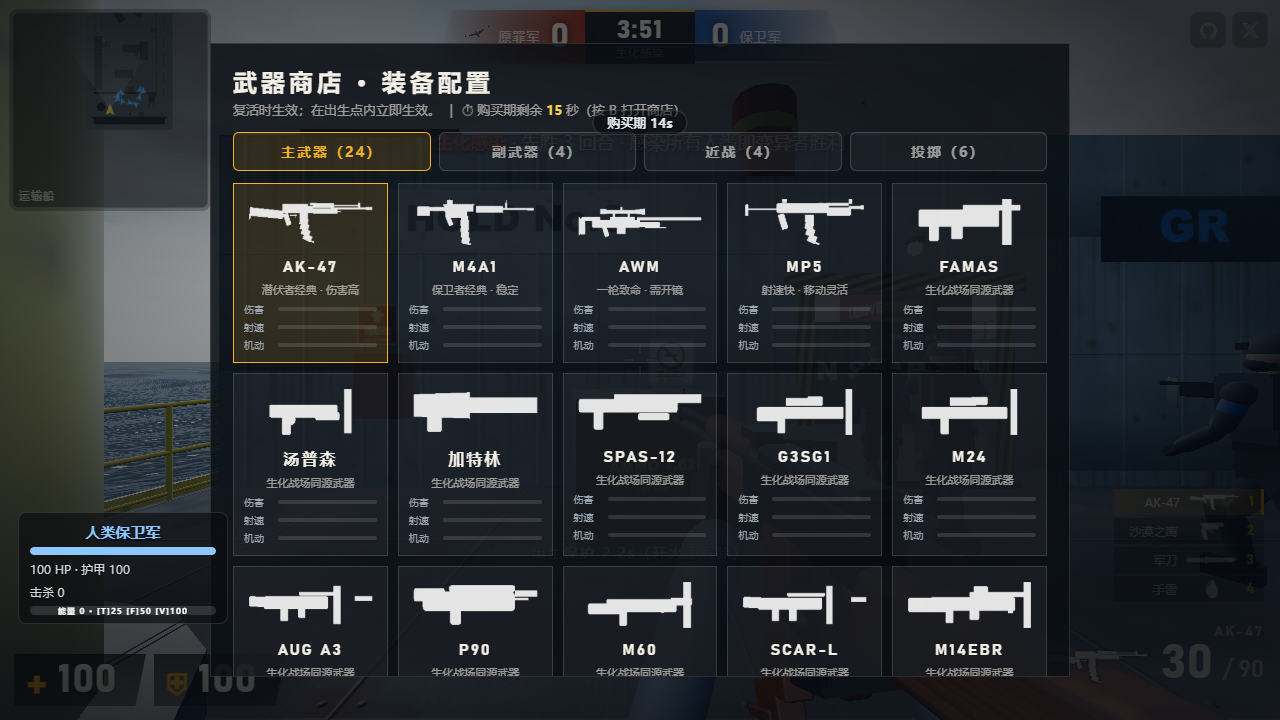
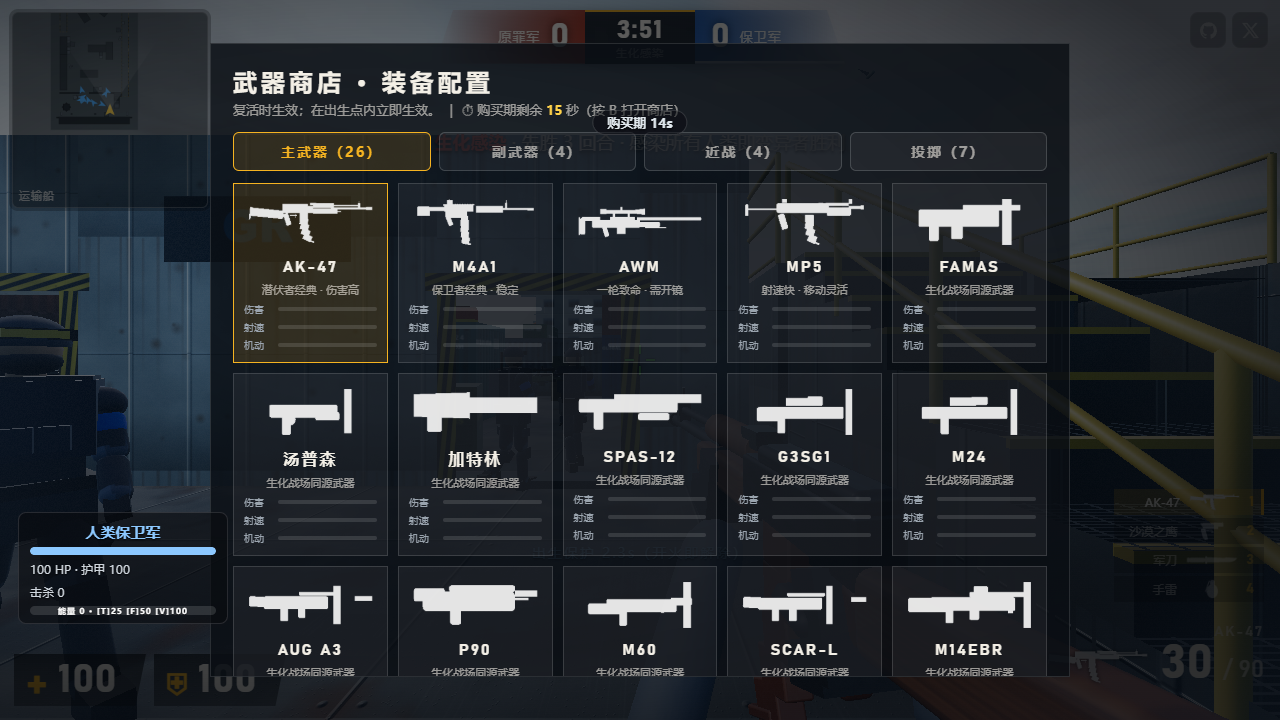
V60: 武器批次2(温彻斯特/龙息霰弹/毒液手雷+毒液区域)+枪模构建器+卡数同步+probe v56

diff --git a/cf-transport-ship/src/weapons.js b/cf-transport-ship/src/weapons.js
@@ -208,6 +208,22 @@ export const WEAPONS = {
     recoil: { up: 0.0032, upMax: 0.05, side: 0.0055, sideStart: 6, recover: 8 },
     sound: 'mp5', hudName: 'PPSH',
   },
+  winchester: {
+    id: 'winchester', name: '温彻斯特', slot: 0, type: 'sniper', auto: false,
+    dmg: 78, headMul: 3.6, limbMul: 0.85, rpm: 46, mag: 8, reserve: 32, reload: 3.6, draw: 0.9, bolt: 0.55,
+    speed: 0.95, range: 220, falloff: 0.99, pen: 1.6, armorPen: 0.9, knock: 4.5, stagger: 0.3,
+    spread: { base: 0.002, move: 0.05, air: 0.24, crouch: 0.6, perShot: 0.03, max: 0.08, recover: 5 },
+    recoil: { up: 0.03, upMax: 0.1, side: 0.007, sideStart: 1, recover: 6 },
+    sound: 'awm', hudName: 'WINCHESTER',
+  },
+  dragonsbreath: {
+    id: 'dragonsbreath', name: '龙息霰弹', slot: 0, type: 'shotgun', auto: false,
+    dmg: 11, pellets: 10, pelletSpread: 0.07, headMul: 2.0, limbMul: 0.9, rpm: 80, mag: 6, reserve: 24, reload: 3.4, draw: 0.95,
+    speed: 0.9, range: 34, falloff: 0.86, pen: 0.3, armorPen: 0.55, knock: 1.6, stagger: 0.16, scorch: true,
+    spread: { base: 0.012, move: 0.024, air: 0.11, crouch: 0.7, perShot: 0, max: 0.03, recover: 5 },
+    recoil: { up: 0.055, upMax: 0.06, side: 0.007, sideStart: 0, recover: 5 },
+    sound: 'deagle', hudName: "DRAGON'S BREATH",
+  },
   dualdeagle: {
     id: 'dualdeagle', name: '双持沙鹰', slot: 1, type: 'pistol', auto: false,
     dmg: 48, headMul: 3.4, limbMul: 0.75, rpm: 400, mag: 14, reserve: 56, reload: 2.6, draw: 0.6,
@@ -288,13 +304,17 @@ export const WEAPONS = {
     id: 'gas', name: '毒气弹', slot: 3, type: 'grenade', auto: false,
     dmg: 9, radius: 3.6, fuse: 2.2, draw: 0.5, speed: 1.0, sound: 'grenade', hudName: 'GAS GRENADE', mag: 1, reserve: 0,
   },
+  venom: {
+    id: 'venom', name: '毒液手雷', slot: 3, type: 'grenade', auto: false,
+    dmg: 20, radius: 3.0, fuse: 1.8, draw: 0.5, speed: 1.0, sound: 'grenade', hudName: 'VENOM', mag: 1, reserve: 0,
+  },
   he: {
     id: 'he', name: '手雷', slot: 3, type: 'grenade', auto: false,
     dmg: 108, radius: 7.2, fuse: 2.6, knock: 9, stagger: 0.5, count: 1, draw: 0.5, speed: 1.0, sound: 'grenade', hudName: 'HE GRENADE', mag: 1, reserve: 0,
   },
 };
 
-export const PRIMARIES = ['ak47', 'm4a1', 'awm', 'mp5', 'famas', 'thompson', 'minigun', 'spas', 'g3sg1', 'm24', 'aug', 'p90', 'm60', 'scarl', 'm14ebr', 'm3super', 'mac10', 'qbz95', 'xm8', 'dualuzi', 'ppsh', 'm79', 'flamer', 'crossbow'];
+export const PRIMARIES = ['ak47', 'm4a1', 'awm', 'mp5', 'famas', 'thompson', 'minigun', 'spas', 'g3sg1', 'm24', 'aug', 'p90', 'm60', 'scarl', 'm14ebr', 'm3super', 'mac10', 'qbz95', 'xm8', 'dualuzi', 'ppsh', 'winchester', 'dragonsbreath', 'm79', 'flamer', 'crossbow'];
 // V19：副武器三选（沙鹰默认；R8 左轮为原作风格高伤手炮）
 export const SECONDARIES = ['deagle', 'usp', 'r8', 'dualdeagle'];
 // V45：近战 selectable（电锯为复仇者/变异者专属不在列）

diff --git a/cf-transport-ship/src/guns.js b/cf-transport-ship/src/guns.js
@@ -405,6 +405,37 @@ const builders = {
     anchor(g, 'grip', 0, -0.06, 0.08); anchor(g, 'muzzle', 0, 0.02, -0.52);
     return g;
   },
+  winchester(m) {
+    const g = new THREE.Group();
+    part(g, RB(0.04, 0.055, 0.3, 0.01), m.metal, 0, 0, -0.04);            // 机匣
+    part(g, RB(0.03, 0.024, 0.34, 0.008), m.metal, 0, 0.055, -0.2);       // 顶管
+    part(g, CZ(0.012, 0.12), m.metal, 0, 0.02, -0.5);                     // 枪管
+    part(g, RB(0.03, 0.05, 0.2, 0.01), m.wood, 0, -0.03, -0.34);          // 前护木（杠杆护手）
+    part(g, RB(0.036, 0.09, 0.05, 0.01), m.wood, 0, -0.06, 0.06);         // 握把
+    part(g, RB(0.04, 0.055, 0.22, 0.012), m.wood, 0, 0.01, 0.24);         // 枪托
+    anchor(g, 'grip', 0, -0.06, 0.05); anchor(g, 'muzzle', 0, 0.02, -0.56);
+    return g;
+  },
+  dragonsbreath(m) {
+    const g = new THREE.Group();
+    part(g, RB(0.05, 0.075, 0.26, 0.012), m.dark, 0, 0, -0.03);           // 机匣
+    part(g, CZ(0.017, 0.24), m.metal, 0, 0.02, -0.3);                     // 粗枪管
+    part(g, CZ(0.022, 0.05), m.steel, 0, 0.02, -0.43);                    // 消焰器
+    part(g, RB(0.028, 0.05, 0.05), m.metal, 0, 0.055, -0.1);              // 导轨
+    part(g, RB(0.03, 0.11, 0.05, 0.01), m.rubber, 0, -0.06, 0.06);        // 握把
+    part(g, RB(0.032, 0.12, 0.05, 0.01), m.dark, 0, -0.09, -0.12);        // 弹仓
+    part(g, RB(0.035, 0.05, 0.16, 0.01), m.wood, 0, -0.01, 0.18);         // 枪托
+    anchor(g, 'grip', 0, -0.06, 0.05); anchor(g, 'muzzle', 0, 0.02, -0.46);
+    return g;
+  },
+  venom(m) {
+    const g = new THREE.Group();
+    part(g, new THREE.SphereGeometry(0.055, 12, 10), m.olive, 0, 0, 0);   // 球形瓶体
+    part(g, RB(0.024, 0.035, 0.024, 0.006), m.metal, 0, 0.065, 0);        // 引信座
+    part(g, RB(0.012, 0.04, 0.012, 0.004), m.rubber, 0, 0.095, 0);        // 拉杆
+    anchor(g, 'grip', 0, -0.05, 0); anchor(g, 'muzzle', 0, 0.1, 0);
+    return g;
+  },
   dualdeagle(m) {
     const g = new THREE.Group();
     for (const sx of [-1, 1]) {

diff --git a/cf-transport-ship/src/hud.js b/cf-transport-ship/src/hud.js
@@ -557,9 +557,9 @@ const SEC_CARDS = SECONDARIES.map((id) => {
   return `<div class="card" data-s="${id}"><img alt=""><b>${d.name}</b><small>${sub}</small></div>`;
 }).join('');
 
-const NADE_CARDS = ['he', 'molotov', 'frost', 'gas', 'flash', 'sticky'].map((id) => {
+const NADE_CARDS = ['he', 'molotov', 'frost', 'gas', 'venom', 'flash', 'sticky'].map((id) => {
   const d = WEAPONS[id];
-  const sub = { he: '高爆 · 范围杀伤', molotov: '火海 · 持续灼烧', frost: '寒爆 · 大幅冻缓', gas: '毒雾 · 持续毒伤', flash: '强光 · 致盲扫点', sticky: '黏附必中 · 反丧尸神器' }[id];
+  const sub = { he: '高爆 · 范围杀伤', molotov: '火海 · 持续灼烧', frost: '寒爆 · 大幅冻缓', gas: '毒雾 · 持续毒伤', venom: '毒液 · 高蚀速杀伤', flash: '强光 · 致盲扫点', sticky: '黏附必中 · 反丧尸神器' }[id];
   return `<div class="card" data-g="${id}"><img alt=""><b>${d.name}</b><small>${sub}</small></div>`;
 }).join('');
 
@@ -663,7 +663,7 @@ const TEMPLATE = `
     <button data-t="loadCards" class="on">主武器（${PRIMARIES.length}）</button>
     <button data-t="secCards">副武器（${SECONDARIES.length}）</button>
     <button data-t="meleeCards">近战（${MELEES.length}）</button>
-    <button data-t="nadeCards">投掷（${['he', 'molotov', 'frost', 'gas', 'flash', 'sticky'].length}）</button>
+    <button data-t="nadeCards">投掷（${['he', 'molotov', 'frost', 'gas', 'venom', 'flash', 'sticky'].length}）</button>
   </div>
   <div class="cards tabPanel" id="loadCards">${PRIM_CARDS}</div>
   <div class="cards tabPanel hidden" id="secCards">${SEC_CARDS}</div>

diff --git a/cf-transport-ship/src/game.js b/cf-transport-ship/src/game.js
@@ -752,7 +752,7 @@ export class Game {
       }
       return;
     }
-    if (wid === 'molotov' || wid === 'frost' || wid === 'gas') {
+    if (wid === 'molotov' || wid === 'frost' || wid === 'gas' || wid === 'venom') {
       this.zones.spawn(wid === 'molotov' ? 'fire' : wid, p.clone());
       this.fx.explosion(p);
       audio.playExplosion(p);
@@ -760,7 +760,7 @@ export class Game {
       for (const a of this.actors) {
         if (!a.alive) continue;
         const c = a.soldier.chestWorld(new THREE.Vector3());
-        if (c.distanceTo(p) <= 2.2) this.damage(a, owner, wid === 'frost' ? 6 : 14, 'chest', wid, dir0, false);
+        if (c.distanceTo(p) <= 2.2) this.damage(a, owner, wid === 'frost' ? 6 : wid === 'venom' ? 18 : 14, 'chest', wid, dir0, false);
       }
       return;
     }

diff --git a/cf-transport-ship/src/woz/zones.js b/cf-transport-ship/src/woz/zones.js
@@ -4,6 +4,7 @@ import * as THREE from 'three';
 const KINDS = {
   fire: { r: 3.2, life: 5, dps: 14, color: 0xff5a1a, label: '火海' },
   gas: { r: 3.6, life: 6, dps: 9, color: 0x6ae05a, label: '毒雾' },
+  venom: { r: 3.0, life: 5, dps: 22, color: 0xa4e02a, label: '毒液' },
   frost: { r: 4.6, life: 4, dps: 0, color: 0x9adfff, label: '寒爆' },
 };
 

diff --git a/cf-transport-ship/WOZ_README.md b/cf-transport-ship/WOZ_README.md
@@ -227,7 +227,8 @@ scripts/          # smoke / woz-e2e / woz-e2e2 / woz-balance 四套自动化
 | V57 | **爆头硬直通用化**：全部变异者被爆头短暂停顿 0.35s（原作爬行者"被击中头部会停止移动"扩展为通用打击反馈），爬行者保持特化 1.5×/0.9s，母体免疫 |
 | V58 | **噬魂者分身强化**（调研对齐"复制繁殖/人海战术"）：分身协同索敌——优先扑向主人的当前目标或主人的最后攻击者；分身被击毁时主人回充能 +25%（HUD 提示） |
 | V59 | **武器批次1**：波波沙（71 发弹鼓 900RPM）/ **双持沙鹰**（14 发双倍火力副武器）/ **军用铁锹**（轻 70/重 130 近战）；全程序化枪模构建器 + 商店分栏卡片 |
+| V60 | **武器批次2**：温彻斯特（杠杆步枪 78 伤/3.6× 爆头）/ **龙息霰弹**（10 弹丸强袭）/ **毒液手雷**（毒液区域 dps22/5s）；商店投掷栏 7 种 |
 
 技能机制（调研对齐原作）：**感染后技能立即可用，使用后进入各自独立冷却**——疾冲 15s / 致盲尖啸 25s / 投掷斧头 20s / 缠绕 6s（原作"可随时使用"）/ 自爆 30s / 狂暴咆哮 30s；受伤与吞噬加速回充；技能键 **G/F**。爬行者无技能槽（技能环显示"躯体坚韧"被动）。
 
-武器总量（V59 后）：**24 主武器（含 M79/火焰喷射器/十字弩/波波沙）** + 4 副武器（含双持沙鹰） + 5 近战（含军用铁锹） + 6 投掷 = **39 件**。
+武器总量（V60 后）：**26 主武器（新增温彻斯特杠杆步枪/龙息霰弹）** + 4 副武器 + 5 近战 + **7 投掷（新增毒液手雷）** = **42 件**。
